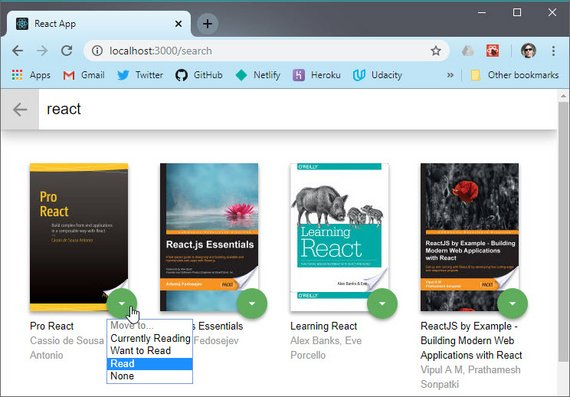
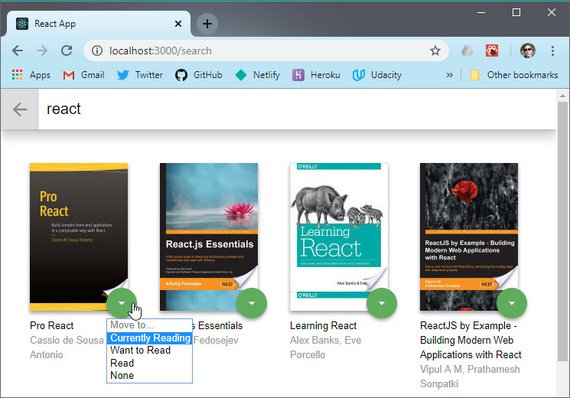
docs: Update 7.2 & 7.3 with images and demo links

diff --git a/docs/README.md b/docs/README.md
@@ -1216,7 +1216,8 @@ const SearchResults = props => {
 
 The code maps over the books in my search results and for each book it then maps over my added books and if there's a match it sets the shelf property.
 
-[![ui10](assets/images/p10-small.jpg)](assets/images/p10.jpg)
+[![ui10](assets/images/p10-small.jpg)](assets/images/p10.jpg)<br>
+**Live Demo:** [reactnd-project-myreads@8-sync-books-and-search](https://codesandbox.io/s/github/james-priest/reactnd-project-myreads/tree/8-sync-books-and-search/) on CodeSandbox
 
 The image shows a search result that displays books I've already added. It now shows the shelf it currently sits on.
 
@@ -1246,6 +1247,11 @@ class BooksApp extends Component {
 ```
 
 This code updates the db and filters out the book from `myBooks`. Then, if a shelf other than 'none' is specified the `shelf` property is added to the book and the book is added to our state.
+
+This shows the book displayed on our main pages on the proper shelf.
+
+[![ui11](assets/images/p11-small.jpg)](assets/images/p11.jpg)<br>
+**Live Demo:** [reactnd-project-myreads@8-sync-books-and-search](https://codesandbox.io/s/github/james-priest/reactnd-project-myreads/tree/8-sync-books-and-search/) on CodeSandbox
 
 <!--
 ### 7.4 Separate Components -->
